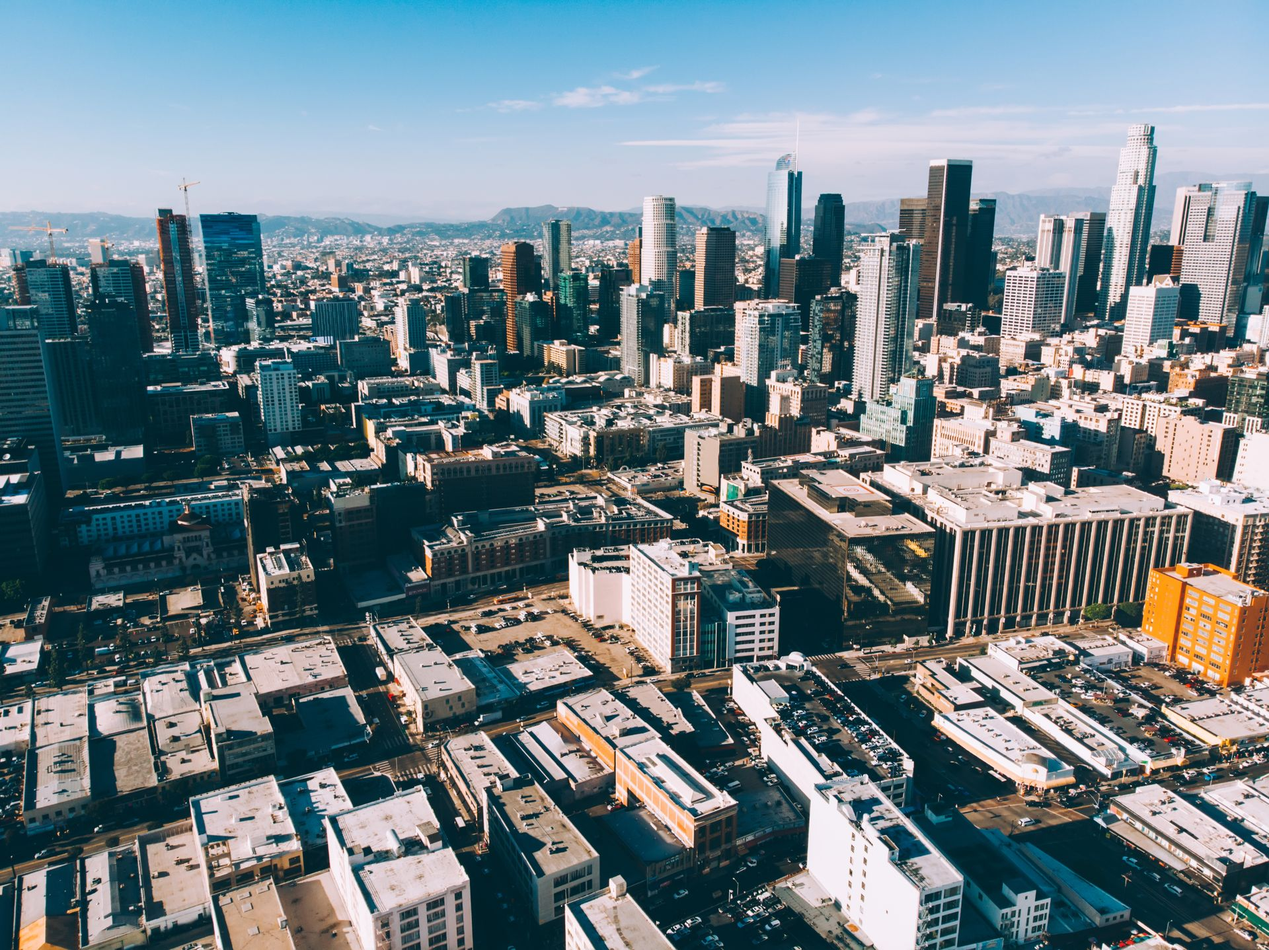
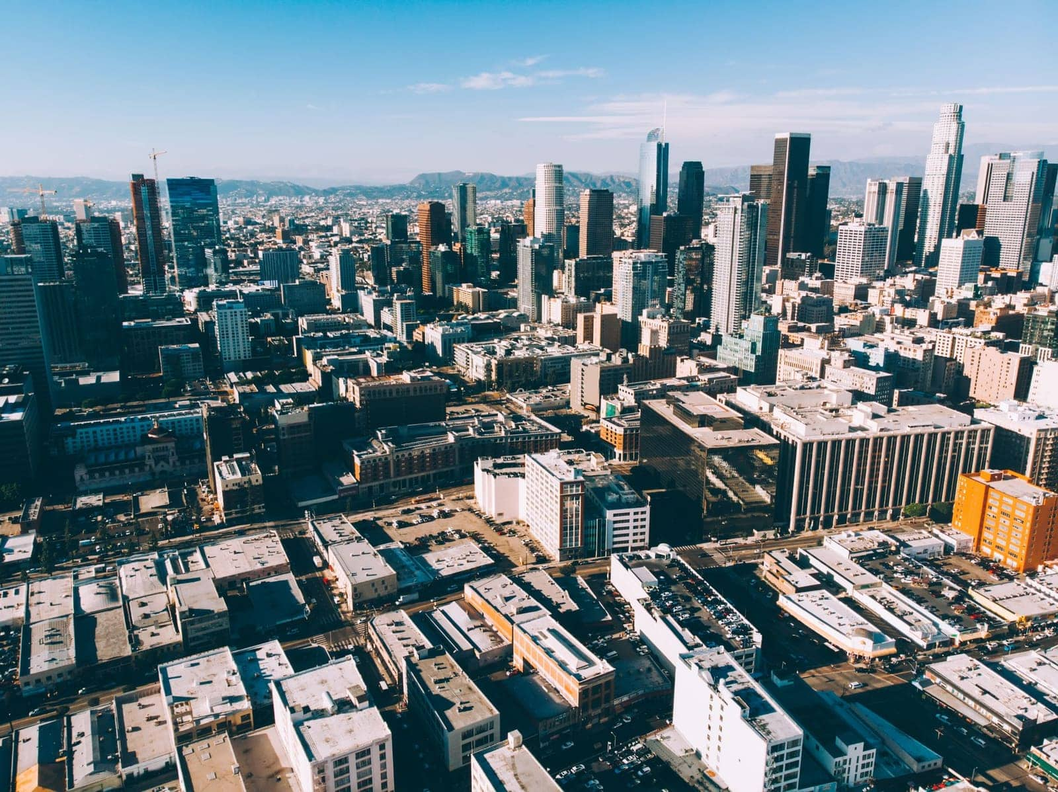
Optimize 7 oversized images: recompress JPEGs, convert team PNGs to JPEG

diff --git a/about.html b/about.html
@@ -1000,7 +1000,7 @@
         <div class="leadership-grid">
             <div class="team-card scroll-fade-in">
                 <a href="team/david-hirsch.html">
-                    <div class="team-photo"><img src="images/team/david-hirsch.png" alt="David Hirsch"></div>
+                    <div class="team-photo"><img src="images/team/david-hirsch.jpeg" alt="David Hirsch"></div>
                     <h3>David Hirsch, MBA</h3>
                     <p>Managing Director</p>
                 </a>
@@ -1023,7 +1023,7 @@
         <div class="leadership-grid">
             <div class="team-card scroll-fade-in">
                 <a href="team/tiffany-drysdale.html">
-                    <div class="team-photo"><img src="images/team/tiffany-drysdale.png" alt="Tiffany Drysdale"></div>
+                    <div class="team-photo"><img src="images/team/tiffany-drysdale.jpeg" alt="Tiffany Drysdale"></div>
                     <h3>Tiffany Drysdale, MSHRM</h3>
                     <p>Director of Human Resources & Payroll</p>
                 </a>
@@ -1037,7 +1037,7 @@
             </div>
             <div class="team-card scroll-fade-in">
                 <a href="team/hailee-ramirez.html">
-                    <div class="team-photo"><img src="images/team/hailee-ramirez.png" alt="Hailee Ramirez"></div>
+                    <div class="team-photo"><img src="images/team/hailee-ramirez.jpeg" alt="Hailee Ramirez"></div>
                     <h3>Hailee Ramirez</h3>
                     <p>VP of Staffing — Data Infrastructure & Analytics</p>
                 </a>

diff --git a/team/tiffany-drysdale.html b/team/tiffany-drysdale.html
@@ -619,7 +619,7 @@
     <section class="bio-section scroll-fade-in">
         <div class="bio-container">
             <div class="bio-photo">
-                <img src="../images/team/tiffany-drysdale.png" alt="Tiffany Drysdale">
+                <img src="../images/team/tiffany-drysdale.jpeg" alt="Tiffany Drysdale">
             </div>
             <div class="bio-content">
                 <h2>Tiffany Drysdale, MSHRM</h2>

diff --git a/team/hailee-ramirez.html b/team/hailee-ramirez.html
@@ -619,7 +619,7 @@
     <section class="bio-section scroll-fade-in">
         <div class="bio-container">
             <div class="bio-photo">
-                <img src="../images/team/hailee-ramirez.png" alt="Hailee Ramirez">
+                <img src="../images/team/hailee-ramirez.jpeg" alt="Hailee Ramirez">
             </div>
             <div class="bio-content">
                 <h2>Hailee Ramirez</h2>

diff --git a/team/david-hirsch.html b/team/david-hirsch.html
@@ -619,7 +619,7 @@
     <section class="bio-section scroll-fade-in">
         <div class="bio-container">
             <div class="bio-photo">
-                <img src="../images/team/david-hirsch.png" alt="David Hirsch">
+                <img src="../images/team/david-hirsch.jpeg" alt="David Hirsch">
             </div>
             <div class="bio-content">
                 <h2>David Hirsch, MBA</h2>
